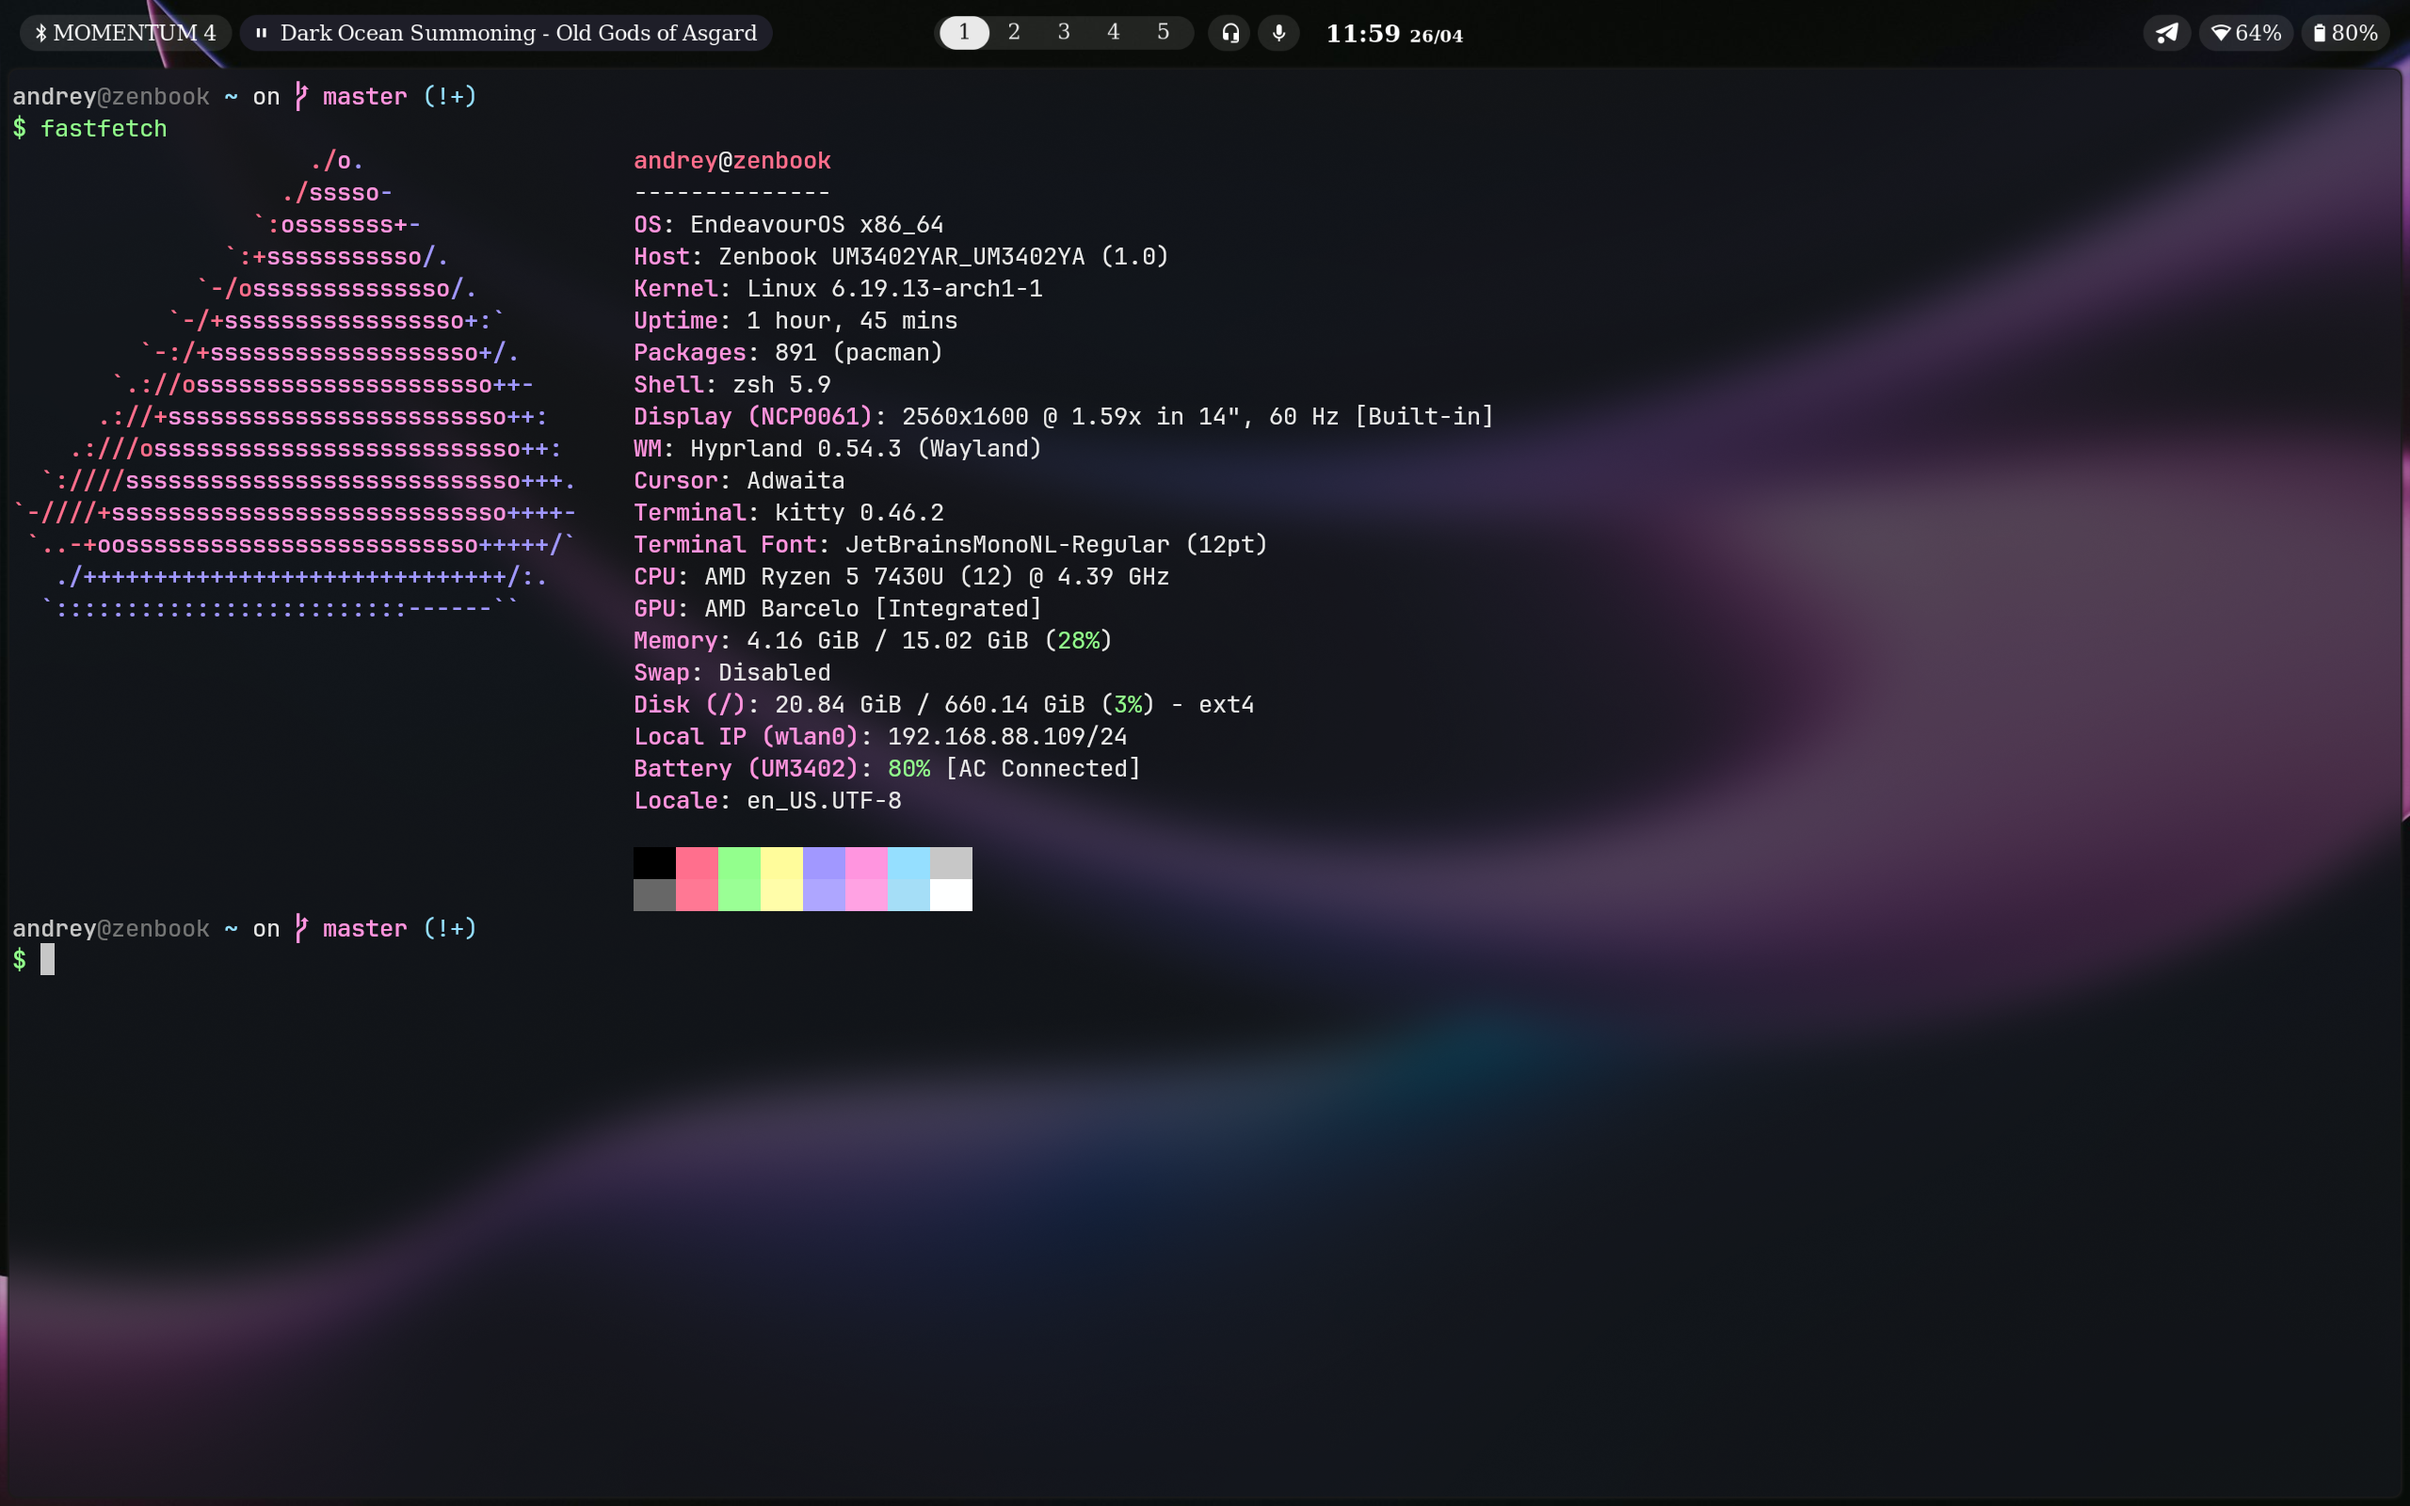
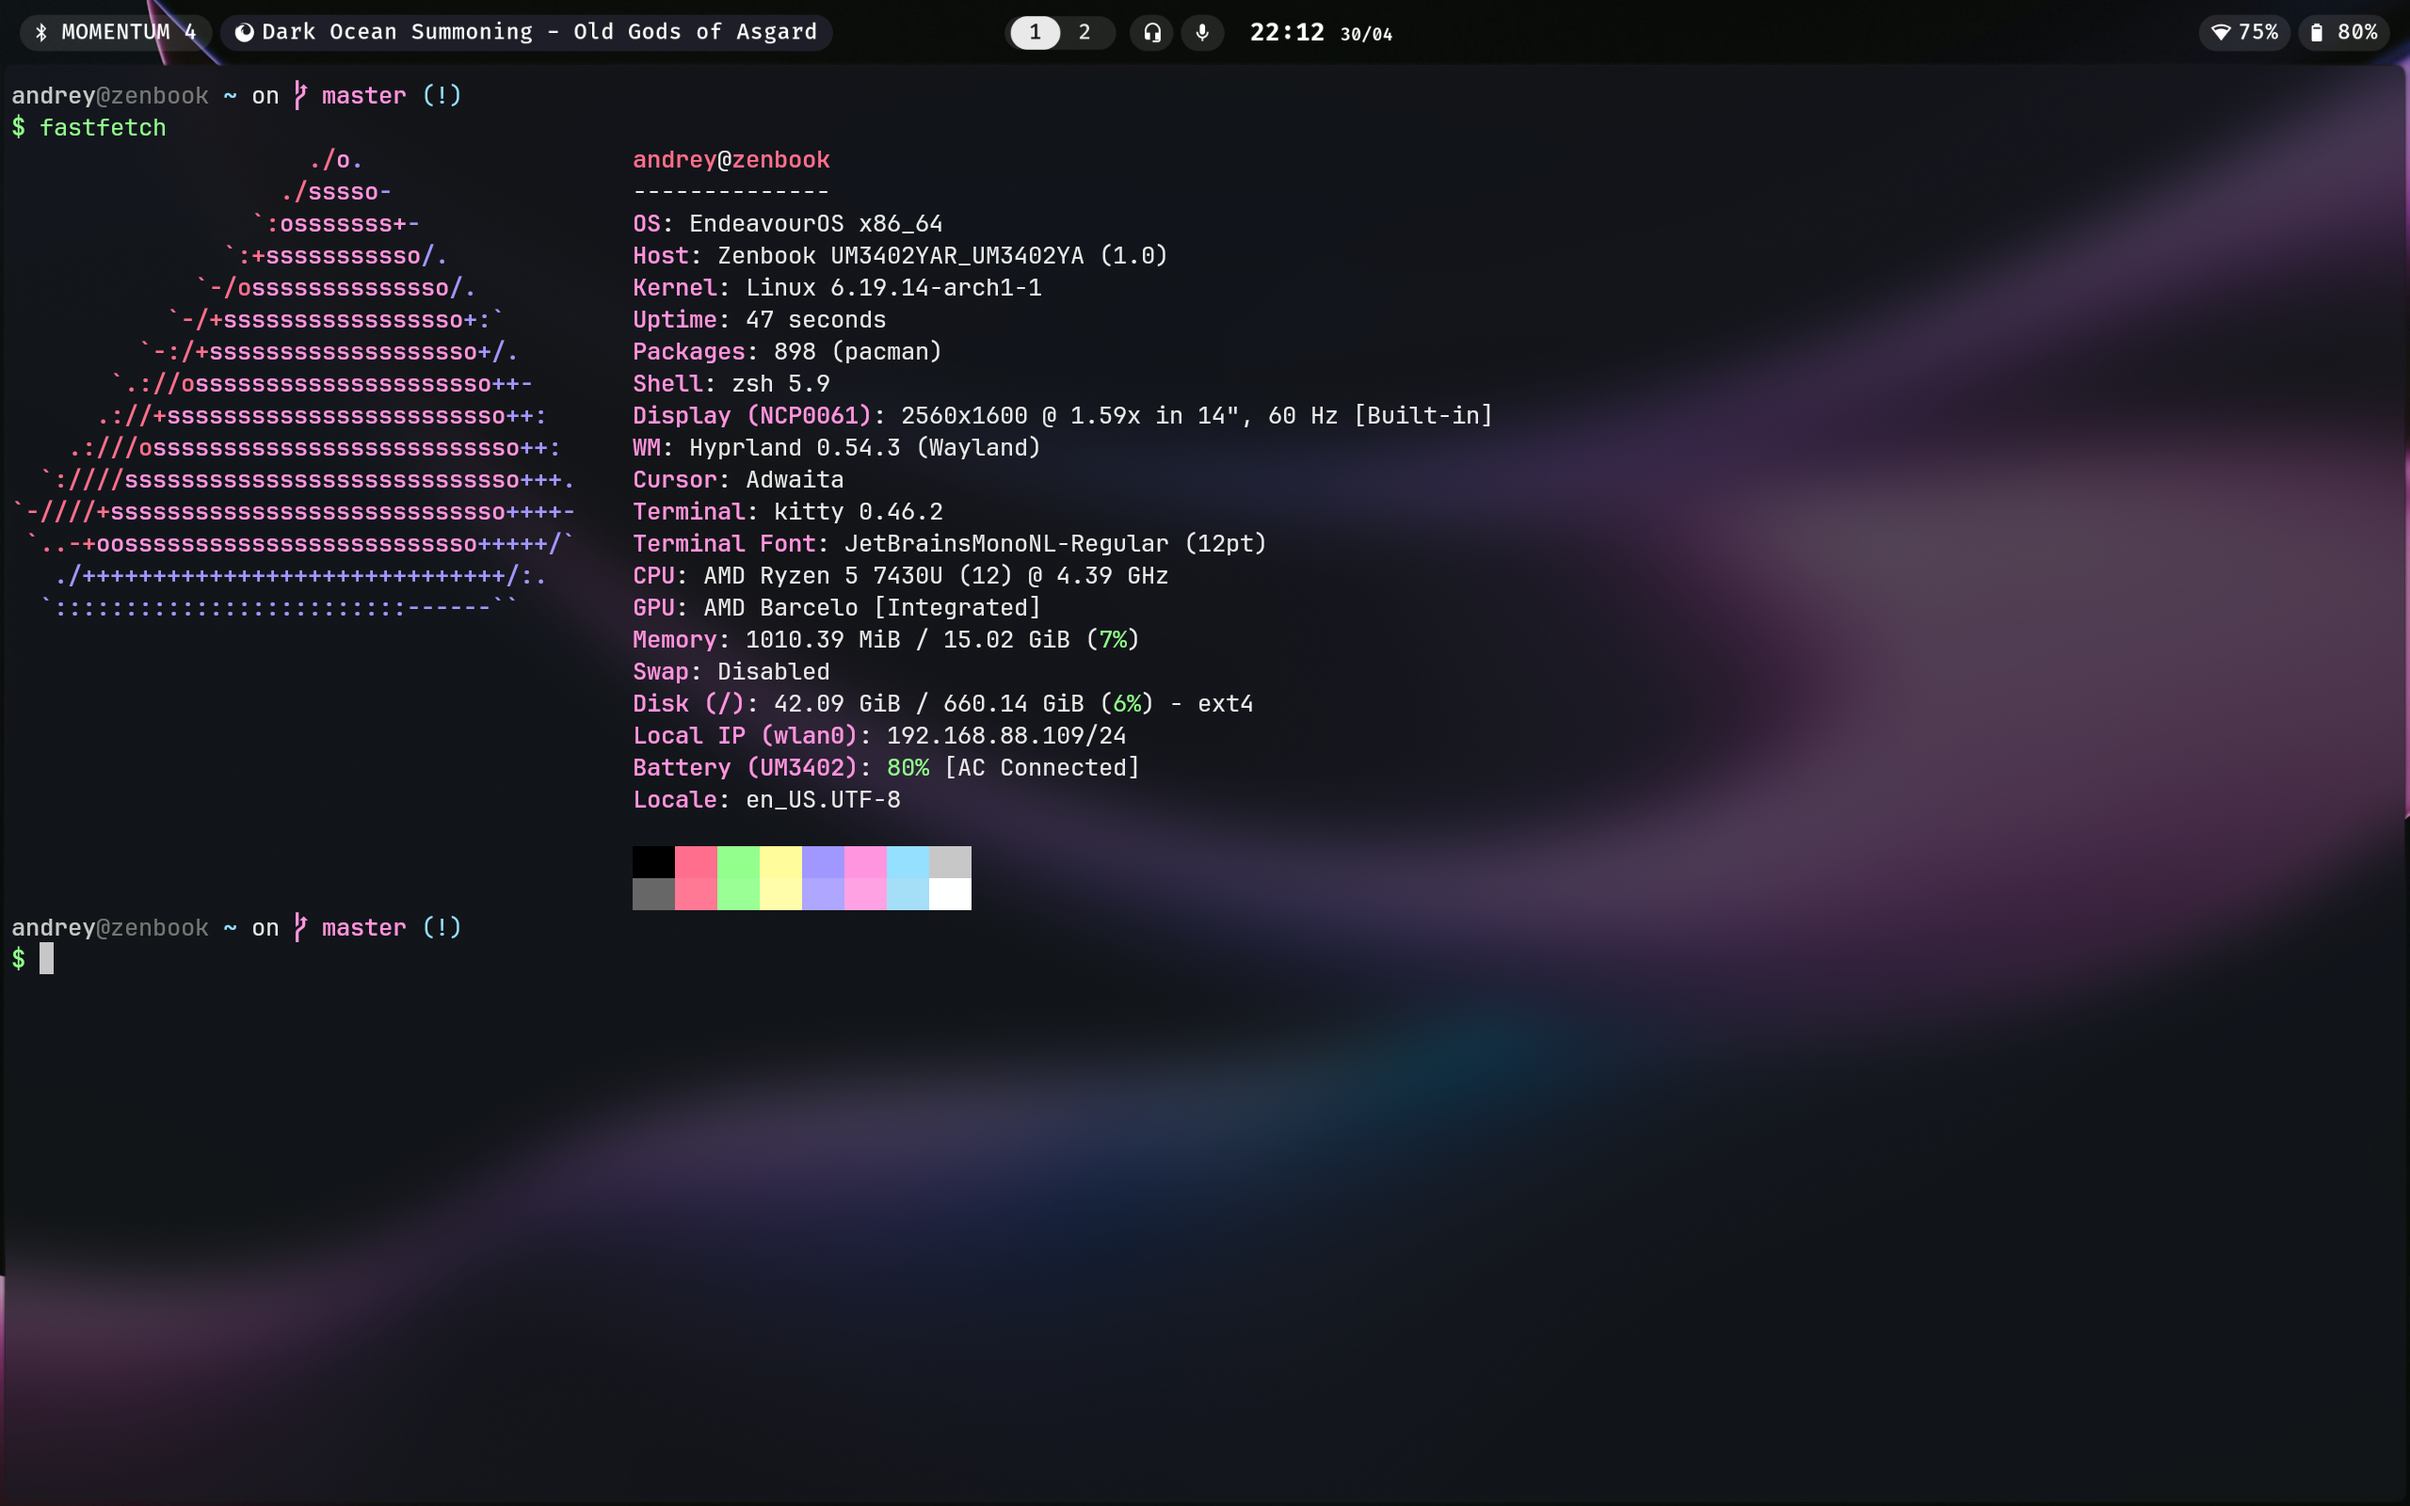
Change font; add script
Add another fzf script for systemctl services with preview of their
status

diff --git a/.config/waybar/style.css b/.config/waybar/style.css
@@ -1,7 +1,7 @@
 * {
     border: none;
     border-radius: 0;
-    font-family: "DejaVu Serif";
+    font-family: "FiraCode Nerd Font";
     font-weight: 500;
     font-size: 14px;
     min-height: 0;

diff --git a/.config/wofi/style.css b/.config/wofi/style.css
@@ -2,7 +2,7 @@
 
 
 * {
-  font-family: "DejaVu Serif";
+  font-family: "FiraCode Nerd Font SemBd";
   font-weight: 500,
   color: #c4d3da;
 }

diff --git a/README.md b/README.md
@@ -48,6 +48,7 @@ cp .sqliterc ~/
 
 ~/.local/bin/        # Custom scripts
 ├── pacman-fzf
+├── systemctl-fzf-services
 └── tmux-sessionizer
 
 ~/.zshrc             # Zsh shell
